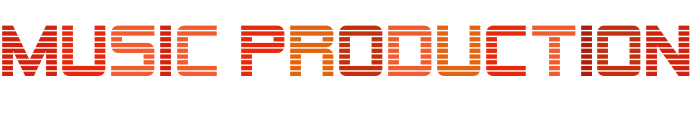
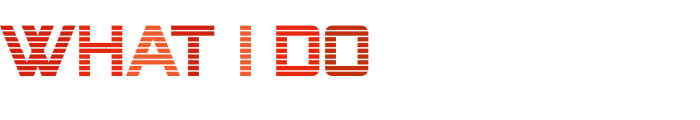
update na Niels input

Changed region(s): [[0.0, 0.2, 0.99, 0.65]]

diff --git a/_layouts/home.html b/_layouts/home.html
@@ -24,7 +24,7 @@ layout: default
   <div class="container">
     <div class="row">
       <div class="col-sm-12">
-        <h3 class="section-heading"><img src="/img/header_services.png" width="350" height="60" alt=""/></h3>
+        <h3 class="section-heading"><img src="/img/header_invisible.png" width="350" height="30" alt=""/></h3>
       </div>
       <div class="col-sm-6">
         {{ page.services_section_text_left }}
@@ -38,7 +38,7 @@ layout: default
         <div class="process-box">
           <p><img src="/img/Icon_PreProd.png" width="130" height="65" alt=""/></p>
           <p class="process-box-title">Pre Production</p>
-          <p>Together we’ll talk, listen to demos to find the core of your music. We focus on how to present your music to your audience. Prepare, fine tune and practice performances.<br />A technical plan will guide the production phase.</p>
+          <p>Together we’ll talk and listen to demos to find the essence of your music. We focus on how you want to present your music to your audience. We prepare, fine-tune and practice performances. A technical plan will guide the production phase.</p>
         </div>
       </div>
       <div class="col-sm-3 col-xs-6 home-section-services-process ">
@@ -65,9 +65,6 @@ layout: default
     </div>
   </div>
 </div>
-
-
-
 
 
 

diff --git a/_layouts/discography.html b/_layouts/discography.html
@@ -7,7 +7,7 @@ layout: default
     {% include nav.html %}
     <div class="row">
       <div class="col-sm-6">
-        <h3 class="section-heading"><img src="/img/header_discography.png" width="330" height="50" alt=""/></h3>
+        <h3 class="section-heading"><img src="/img/header_discography.png" width="350" height="60" alt=""/></h3>
         {{ content }}
       </div>
       <div class="col-sm-6">

diff --git a/_includes/nav.html b/_includes/nav.html
@@ -1,6 +1,6 @@
 <div class="row site-header">
   <div class="col-sm-6">
-    <h1><a href="/" class="site-logo">RedHouse</a></h1>
+    <h1><a href="/" class="site-logo">Gijs van Klooster</a></h1>
   </div>
   {% if page.layout == "project" %}
   <div class="col-sm-6 nav-wrapper">

diff --git a/css/style.css b/css/style.css
@@ -38,8 +38,8 @@ iframe {
 .site-logo {
   color: #D42005 !important;
   text-decoration: none !important;
-  font-family: 'Blitz', serif;
-  font-size: 55px;
+  font-size: 40px;
+  font-weight: bold;
 }
 .site-tagline {
   font-weight: bold;

diff --git a/index.md b/index.md
@@ -24,32 +24,31 @@ project_thumbnails:
 
 about_text: >
   <p>&nbsp;</p>
-  <p>&nbsp;</p>
   <p class="redhouse-tagline">MAKING SONIC DREAMS COME TRUE</p>
   <p>&nbsp;</p>
   <p>&nbsp;</p>
   <p>&nbsp;</p>
   <p>&nbsp;</p>
   <p>&nbsp;</p>
-  <p class="redhouse-tagline2">RedHouse is the music studio of<br />Gijs van Klooster</p>
+  <p>&nbsp;</p>
+  <p>&nbsp;</p>
   <p>&nbsp;</p>
 
 
-
 studio_section_text: >
-  <p>RedHouse is a 'performance studio'. An intimate studio where musical ideas can be captured without interrupting the flow. Everybody together in one room working on the same thing.</p>
-  <p>And yes, I have Phase-Linear-Monitoring, and yes a fancy Millennia pre-amp too. Lotsa instruments and toys available to play. You just need a place that sounds good and where you feel comfortable - and a guy that knows how to work that sh*t.</p>
+  <p>My RedHouse studio is a 'performance studio'. It’s an intimate place, where musical ideas can be captured without the flow being interrupted. Everybody is together in the same room, working on the same thing.</p>
+  <p>And yes: I do have Phase-Linear-Monitoring, and a fancy Millennia pre-amp too. Plus: loads of  instruments and other musical toys available to play around with. I envisioned that a recording artist needs a place that basically sounds good, where they feel comfortable, guided by a guy that knows how to work all the buttons and faders.</p>
+  <p>Based in Amsterdam, the Netherlands.</p>
 
 
 services_section_text_left: >
-  <p>Providing the experience and necessary perspective to guide a recording from start to finish.</p>
-  <p>After playing, composing and producing music for more than 30 years in many genres I can cover the whole process that often starts in a rehearsal room or home studio and ends in a mastering studio.</p>
+  <p><strong>I provide the experience and necessary perspective to guide an artist’s recording from start to finish.</strong></p>
+  <p>After playing, composing and producing music for over 30 years in many genres, I’m more than experienced to cover the whole process - often starting in a rehearsal room or home studio and ending in a mastering studio.</p>
 
 
 services_section_text_right: >
-  <p>What drives me is to deliver a musical listening experience that really expresses the artist’s inspiration. And make everything connect - from concept to final master - and tell the same story; performance, music, processing, mix .. sound.</p>
-  <p>If you want me involved in any or all phases of your musical journey, <a href="mailto:gijs@redhouse.nl" target="blank" class="red-link">get in touch</a> and we'll have a coffee.</p>
-
+  <p>Delivering a musical listening experience that really expresses the artist’s inspiration, is what ultimately drives me. Making everything connect - from concept to final master - and tell the same story; performance, music, processing, mix .. sound.</p>
+  <p>If you want me involved in any or all phases of your musical journey, <a href="mailto:gijs@redhouse.nl" target="blank" class="red-link">get in touch</a> for a cup of coffee.</p>
 
 
 

diff --git a/_projects/project1903-Henosis.md b/_projects/project1903-Henosis.md
@@ -40,11 +40,14 @@ Listen to the album on Spotify:
 
 Listen to the album in your favorite player [here](https://dg.lnk.to/beving-henosis).
 
-Henosis - the film created by [Rahi Rezvani](http://www.rahirezvani.com):
+Henosis - the film created by [Rahi Rezvani](http://www.rahirezvani.com) in 3 Movements:
 
 <iframe width="400" height="225" src="https://www.youtube.com/embed/ZhVojkxHW70?rel=0" frameborder="0" allow="accelerometer; autoplay; encrypted-media; gyroscope; picture-in-picture" allowfullscreen></iframe>
 
 <iframe width="400" height="225" src="https://www.youtube.com/embed/cA5_4eMiLqQ?rel=0" frameborder="0" allow="accelerometer; autoplay; encrypted-media; gyroscope; picture-in-picture" allowfullscreen></iframe>
+
+<iframe width="400" height="225" src="https://www.youtube.com/embed/ZIxBfaDX910?rel=0" frameborder="0" allow="accelerometer; autoplay; encrypted-media; gyroscope; picture-in-picture" allowfullscreen></iframe>
+
 
 Joep about working together:
 <blockquote>
